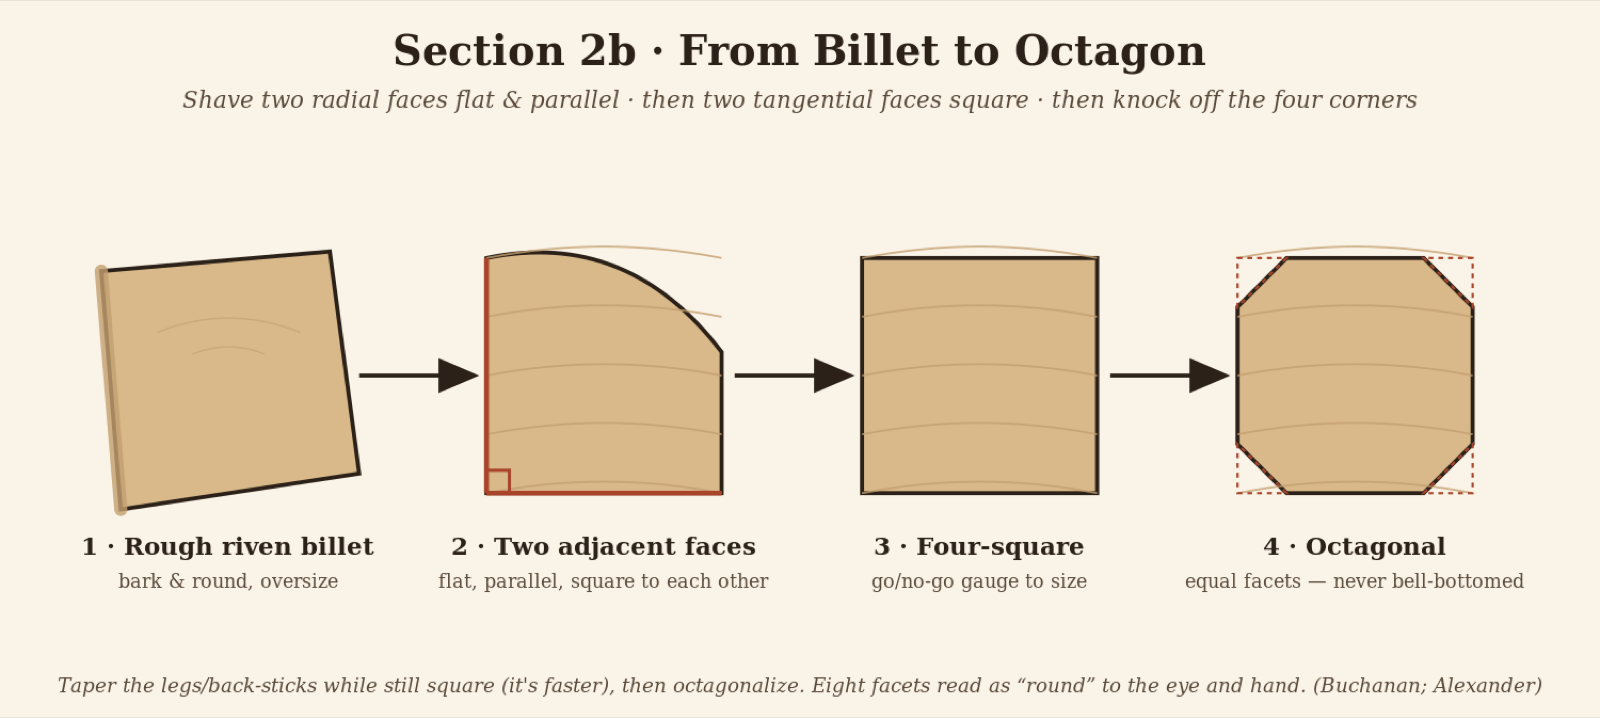
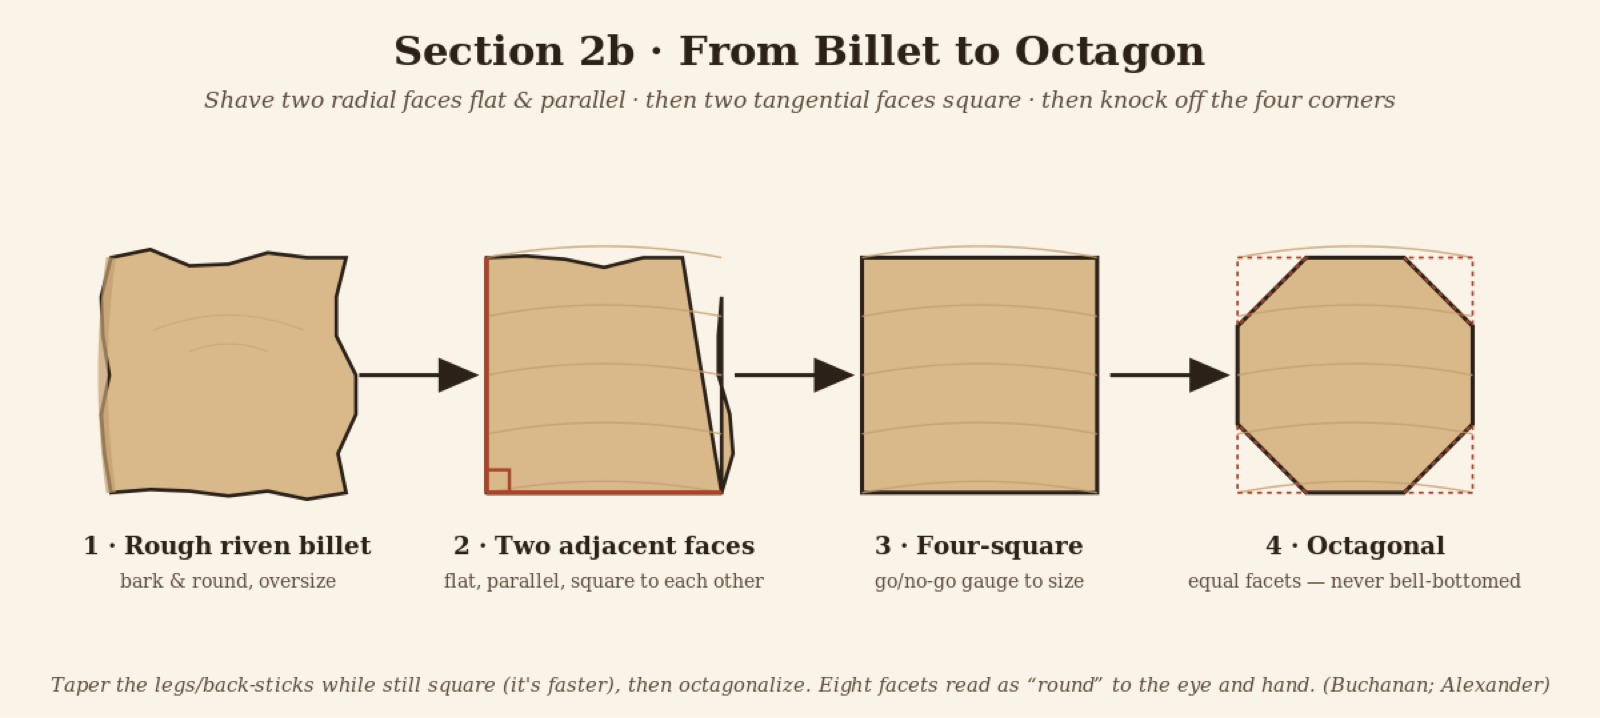
Sync with cowork's revised manuscript: real Sections 8 & 9 (drop drafts), expanded wood/splitting, Section 10 finish, 7 updated diagrams, drop oak photo

diff --git a/index.html b/index.html
@@ -191,7 +191,7 @@
         </div>
 
         <h3 class="sub">Riving and the radial face</h3>
-        <p>Splitting and shaving green wood is not nostalgia. Riven parts follow the wood's long fibers unbroken, which makes them far stronger and lighter than sawn parts — and far easier to shape by hand. As Jennie Alexander put it, you rive “to easily and readily obtain powerful bundles of long fibers.” Riving works radially: you split the log in half through the pith, halve again into quarters, and split billets out of each quarter along the rays. Every split runs pith-to-bark, so each part comes off the log with a true radial face already on it.</p>
+        <p>Splitting and shaving green wood is not nostalgia. Riven parts follow the wood's long fibers unbroken, which makes them far stronger and lighter than sawn parts — and far easier to shape by hand. As Jennie Alexander put it, you rive “to easily and readily obtain powerful bundles of long fibers.” Riving works radially: you split the log in half through the pith, then into quarters and finer, each split running pith-to-bark along the rays — so each part comes off the log with a true radial face already on it. (On a big log you'll split well past quarters, and once the pieces get small you'll also split tangentially, along the rings, just to get down to size — more on that in Section 1.)</p>
         <figure class="fig-plate caption-block">
           <img src="media/fig-rive-radially.png" loading="lazy" alt="Figure: rive radially — halve through the pith, quarter, then split billets along the rays.">
           <figcaption>Rive radially — halve through the pith, quarter, then split billets along the rays. Shave downhill, with the grain.</figcaption>
@@ -200,11 +200,6 @@
         <h3 class="sub">Reading the grain: radial and tangential</h3>
         <p>Look at the end of a log and you see growth rings circling the pith, with faint radial lines — the medullary rays — running outward like spokes. These two directions give a part its two kinds of face. A radial face lies along a ray, square to the rings, and its grain reads as straight parallel lines. A tangential face lies across the rings, and its grain reads as nested “cathedral” arches.</p>
         <p>For the standard chair, orient the wide faces of the arms and crest radial — the broad 2½″ face of an arm lying on the ray. Radial faces are more stable, move less, and present cleaner grain to the eye. Alexander's instruction for every part is simply to start with the radial face and work from there. The legs and back sticks, being roughly square, end up with a radial face on two sides and tangential on the other two.</p>
-        <figure class="photo">
-          <img src="media/ref-red-white-oak.jpg" loading="lazy" alt="End-grain comparison of red oak and white oak.">
-          <figcaption>Red oak (left) and white oak (right) — both make fine chairs. Alexander, <i>Make a Chair from a Tree</i>.</figcaption>
-        </figure>
-
         <h3 class="sub">Choosing the log</h3>
         <p>For the standard build, seek clear, straight-grained oak with no knots, twist, or rot in the lengths you need — it is the most predictable to read and the easiest to work. As Glenn notes, “straight-grained material works easier with hand tools.” One good log holds an entire chair.</p>
         <div class="callout historic">
@@ -288,6 +283,7 @@
             <li>Score the end grain pith-to-bark; start a narrow wedge, then a splitting wedge.</li>
             <li>Leap-frog wedges down the log; gluts to widen; roll it to free a pinched back.</li>
             <li>Quarter each half; pare away the juvenile wood at the pith.</li>
+            <li>On a big log, keep splitting — eighths, sixteenths, finer. Radial first; switch to tangential once pieces get narrow.</li>
           </ol>
           <p class="bc-head">Rive</p>
           <ol>
@@ -303,7 +299,8 @@
           <img src="media/fig-score-wedge-leapfrog.png" loading="lazy" alt="Figure: score pith-to-bark, start a wedge, then leap-frog wedges along the opening crack.">
           <figcaption>Score pith-to-bark, start a wedge, then leap-frog wedges along the opening crack.</figcaption>
         </figure>
-        <p>Start by splitting the whole log in half lengthwise, if you can. Beyond halving the stock, the fresh split face does something useful: it reveals any large knots hiding inside, so you can plan around them. With the interior in view, buck the halves into rough part-lengths — about 36″ and up — cutting out knots as you go. Then quarter each half. Before splitting any further, pare away the juvenile wood near the pith (it is weak and unstable), and you're left with clean quarters to rive from.</p>
+        <p>Start by splitting the whole log in half lengthwise, if you can. Beyond halving the stock, the fresh split face does something useful: it reveals any large knots hiding inside, so you can plan around them. With the interior in view, buck the halves into rough part-lengths — about 36″ and up — cutting out knots as you go. Then quarter each half, and pare away the weak, unstable juvenile wood near the pith.</p>
+        <p>With a big log, quarters are often still too heavy to handle and too fat to rive — so keep going. Split the quarters into eighths, sixteenths, or finer, both so you can actually move the pieces and so they reach a riveable size. These first splits are radial — pith-to-bark, along the rays — which is what gives each part its strong radial face. But once the wedges of wood get narrow, a radial split has little width left to take. At that point switch to splitting tangentially, along a growth ring, to peel a piece down to billet size. You give up the perfectly-radial face on those splits, but it is the only way to break a small wedge down further.</p>
         <p>To make a split, begin at the end grain. Score a line from the pith out to the bark — if the log already shows a radial check, follow it. Drive a narrow starting wedge into the scored line with the sledge. When the crack begins to open, switch to a standard splitting wedge and drive it until the crack travels along the length. Then comes the technique that makes long logs manageable, described step by step by Drew Langsner in <i>Country Woodcraft</i>:</p>
         <blockquote class="pq">
           <p>Continue leap-frogging to the end of the log. Use gluts to further open the crack… Gluts must be placed so that they won't intercept interior cross fibers — they will split apart if driven into cross fibers.</p>
@@ -644,7 +641,7 @@
             <li>Drill the comb at an angle; dry-fit and assemble — it pulls strays into line.</li>
           </ol>
         </div>
-        <p class="intro">With the outer sticks, arms, and legs established, you fill in the rest of the back and cap it with the comb. (Leveling and final assembly come a little later, once the parts are shaped.)</p>
+        <p class="intro">With the outer sticks, arms, and legs established, fill in the rest of the back and cap it with the comb. The chair's shape and posture come together here.</p>
 
         <h3 class="sub">Space and drill the inner sticks</h3>
         <p>Assemble what you have so far. Rotate the two outer back sticks until they sit at roughly the same angle along the layout line, and take that angle with a bevel gauge — that's the angle for the inner sticks (unless you have a “spicy” plan, like a curved crest, in which case you can vary them deliberately). Space the inner sticks evenly (or don't): divide the distance between the centerpoints of the two outer sticks by (n − 1), where n is the total number of back sticks, and you have the spacing.</p>
@@ -656,103 +653,115 @@
 
       <hr class="divider">
 
-      <!-- ===== SECTION 8 (final shaping — DRAFT) ===== -->
+      <!-- ===== SECTION 8 (final shaping) ===== -->
       <section id="sec8" class="build">
         <p class="sec-label">Section 8</p>
         <h2 class="sec-title">Final Shaping of the Parts</h2>
         <p class="sec-goal"><b>Goal:</b> Bring every part to its finished profile before glue-up.</p>
-        <div class="callout draft">
-          <div class="co-head">Work in progress</div>
-          <div class="co-body">This section is a rough draft — sketched from my notes, not yet fleshed out or finalized by me. Treat it as a placeholder, and check back as I revise it.</div>
-        </div>
-        <p class="intro">With the chair fully dry-fit and every joint proven, take it back apart and bring each part to its final shape. This is the pass that turns a sound chair into a resolved one — the surfaces and lines your hand and eye will read for the next hundred years.</p>
         <div class="bench-card">
           <ol>
-            <li>Fair the <b>arms</b> and <b>comb</b> to their finished outline; resolve the ends and ease the curves.</li>
-            <li>Put a light <b>chamfer</b> or soft round on every edge a hand or body meets.</li>
-            <li>Take a final clean pass with a sharp drawknife, spokeshave, or scraper — read the grain.</li>
-            <li>Rough-shape the proud <b>through-tenons</b> now; final-trim them after wedging (Section 10).</li>
+            <li>Refine the <b>arms &amp; comb</b> with a drawknife (spokeshave or block plane for tricky grain); add any stylistic touches.</li>
+            <li><b>Legs:</b> carry the taper further, or cut a double taper — without thinning away the strength.</li>
+            <li><b>Middle sticks:</b> match the outer sticks for a uniform fan, or leave them a touch varied.</li>
+            <li><b>Surfaces &amp; edges:</b> scrape out tear-out; chamfer or round the seat edges and any sharp arris.</li>
           </ol>
         </div>
-        <h3 class="sub">Fair the arms and comb</h3>
-        <p>Shape the arms and the comb to their finished outline. Fair the long curves so they flow, resolve the ends to a shape that pleases you, and check the lines from a step back — the eye catches what the rule misses.</p>
-        <h3 class="sub">Ease every edge</h3>
-        <p>Put a light chamfer or a soft round on every edge a hand or a body will meet — the front of the seat, the arm tops, the comb. A few passes with a spokeshave or block plane is plenty; the goal is to take the sharpness off, not to round everything away.</p>
-        <h3 class="sub">A last, clean surface</h3>
-        <p>Take a final pass with a sharp drawknife, spokeshave, or scraper, reading the grain as you go. On a green-wood chair the faceted, tooled surface <em>is</em> the finish — there is little or no sanding to do.</p>
+        <p class="intro">Before glue-up, take everything to its finished shape. Now that the joinery is settled and you can see the whole chair, this is where it stops being a collection of sticks and starts being yours.</p>
+
+        <h3 class="sub">Arms and comb</h3>
+        <p>Refine the arms and the comb with a drawknife — round the arms over, ease their ends, and bring the comb to its final profile. If a piece has grumpy, swirling grain that the drawknife wants to tear (riven stock rarely does, but a sawn or figured board can), switch to a spokeshave or a block plane, which take a smaller bite and handle reversing grain more kindly. This is also the place for any stylistic touches or light carving you have in mind — a faceted arm, a shaped comb, a chamfered end.</p>
+
+        <h3 class="sub">Legs</h3>
+        <p>The legs already carry the taper you put in earlier; now you can carry it further if you like. Continue the taper farther down the leg for a more delicate line, or cut a double taper — slim toward the foot and again up near the seat, leaving a swell in the middle — for a livelier shape. Keep an eye on strength: don't thin a leg so far it loses its backbone.</p>
+
+        <h3 class="sub">The middle sticks</h3>
+        <p>If you want the inner back sticks to read as a uniform set with the outer ones, refine their shape now — match their diameter and taper to the outer sticks so the fan looks intentional. Or leave them a touch varied; on a folk chair that reads as character, not error.</p>
+
+        <h3 class="sub">Surfaces and edges</h3>
+        <p>Clean up any tear-out with a card scraper or a spokeshave — a scraper especially loves the spots where the drawknife fought the grain. Then chamfer or round the edges of the seat so they don't bite the backs of a sitter's knees, and ease any other sharp arris your hand will meet. A few passes of detailing here make the difference between a rough chair and a finished one.</p>
+        <div class="callout folk">
+          <div class="co-head">The folk approach</div>
+          <div class="co-body">None of this has to be uniform or perfect. Tool facets, a slightly heavier arm on one side, a comb that isn't dead-symmetric — these are the fingerprints of a hand-made chair, and they are welcome. Shape to please your own eye.</div>
+        </div>
       </section>
 
       <hr class="divider">
 
-      <!-- ===== SECTION 9 (assembly & leveling — DRAFT) ===== -->
+      <!-- ===== SECTION 9 (assembly & leveling) ===== -->
       <section id="sec9" class="build">
         <p class="sec-label">Section 9</p>
         <h2 class="sec-title">Assembly &amp; Leveling</h2>
         <p class="sec-goal"><b>Goal:</b> The chair glued up, standing true, and reclined to taste.</p>
-        <div class="callout draft">
-          <div class="co-head">Work in progress</div>
-          <div class="co-body">The glue-up notes here are still a draft I haven't fleshed out — the leveling steps are settled, but treat the assembly notes as a placeholder until I revise them.</div>
-        </div>
-        <p class="intro">Now the chair comes together for good. You have proven every joint dry; this is where you commit them — in order, and only when each part is ready.</p>
         <div class="bench-card">
-          <p class="bc-head">Assemble</p>
+          <p class="bc-head">Glue up</p>
           <ol>
-            <li>Glue and drive the joints home <b>in build order</b> (see the rule below).</li>
-            <li>Seat each tenon fully; check the chair sits square as you go.</li>
+            <li>Assemble <b>in build order</b>, gluing as you go.</li>
+            <li>For legs: seat most of the way, then glue the <b>leg</b> (not the mortise) before driving home.</li>
+            <li>Wedge a leg-to-arm joint for a positive lock; wedge the comb only if it's loose.</li>
           </ol>
           <p class="bc-head">Level</p>
           <ol>
-            <li>Stand the chair on a dead-flat surface; shim until it sits at the attitude you want.</li>
-            <li>Scribe each leg with a block and a half-pencil; saw to the line.</li>
+            <li>On a dead-flat surface, shim the seat level side to side.</li>
+            <li>Set the recline by shimming the back (or front) feet; scribe each leg and saw to the line.</li>
           </ol>
         </div>
+        <p class="intro">Now bring it all together for good, and stand it on its feet so it sits the way you want.</p>
 
-        <h3 class="sub">Assemble in build order</h3>
-        <p>With the parts shaped, the chair goes together for the last time. Drive each joint home, trusting the green-wood grip — the dry tenons set into the seat's mortises, and the moisture difference draws them tight as the chair settles.</p>
+        <h3 class="sub">Glue up</h3>
+        <p>Assemble in the order you built the chair, gluing as you go. For the legs, seat each one most of the way, then put the glue on the leg before driving it home — if you put glue down inside the mortise instead, you'll squeeze out a mess and may hydraulic-lock the joint. A wedge across a leg-to-arm joint is a nice touch where you want a positive lock. The comb only needs a wedge if its tenons aren't a tight fit; if they're snug, leave them. Through-tenons can be left proud and stylized — domed or chamfered — or cut flush, as you like.</p>
         <div class="callout tip">
           <div class="co-head">A rule worth keeping</div>
-          <div class="co-body"><span class="co-title">Always work in build order.</span>Whenever you put the chair together or take it apart, do it in the order you made it: outer back sticks first, then the arm, then the front leg, then the back leg, then the remaining back sticks, and the comb last. To disassemble, reverse that order — comb first, sticks last. Forcing parts out of order is how joints crack.</div>
+          <div class="co-body"><span class="co-title">Build order.</span>Put the chair together in the order you made it: outer back sticks → arm → front leg → back leg → remaining back sticks → comb. To take it apart, reverse it — comb first, sticks last. Forcing parts out of order is how joints crack.</div>
         </div>
         <figure class="fig-plate caption-block">
           <img src="media/fig-assemble-order.png" loading="lazy" alt="Figure: assemble — and disassemble — in the order the chair was built.">
           <figcaption>Assemble — and disassemble — in the order the chair was built.</figcaption>
         </figure>
 
-        <h3 class="sub">Level the chair and set the recline</h3>
-        <p>Finally, cut the legs to length to do two things at once: level the chair so it sits without rocking, and set its recline — the angle between the seat and the floor — to taste. Stand the assembled chair on a dead-flat surface, shim it until it sits at the attitude you want, then scribe each leg with a block and a half-pencil and saw to the line. The same scribing logic that levels a row of sticks levels the four feet to the floor.</p>
+        <h3 class="sub">Level the seat, then set the recline</h3>
         <figure class="fig-plate caption-block">
-          <img src="media/fig-level-scribe-legs.png" loading="lazy" alt="Figure: stand the chair on a flat surface, shim it, and scribe each leg to one height.">
-          <figcaption>Stand the chair on a flat surface, shim it, and scribe each leg to one height.</figcaption>
+          <img src="media/fig-level-scribe-legs.png" loading="lazy" alt="Figure: stand the chair on a flat surface, shim level, and scribe each leg to one height.">
+          <figcaption>Stand the chair on a flat surface, shim level, and scribe each leg to one height.</figcaption>
         </figure>
+        <p>Stand the assembled chair on a dead-flat surface. First get the seat level side to side, using blocks and shims under the feet until it stops rocking. Then set the front-to-back attitude — the recline — to the sitter's taste by shimming the back (or front) feet. When it sits the way you want, scribe each leg with a block and a half-pencil and saw to the line; the four feet now meet the floor together.</p>
+        <div class="callout caution">
+          <div class="co-head">Caution</div>
+          <div class="co-body">If you gave the back sticks a high angle, don't recline the seat too far, or the chair gets tippy — the sitter's weight ends up behind the back feet. If it does feel tippy: either take a little off the front legs to stand it up straighter, or drill a hole in the back of the seat and add a fifth leg (an old, honest folk fix — see the Greenhill Six-legged Chair).</div>
+        </div>
       </section>
 
       <hr class="divider">
 
-      <!-- ===== SECTION 10 (pinning) ===== -->
+      <!-- ===== SECTION 10 (pinning, wedging & finishing) ===== -->
       <section id="sec10" class="build">
         <p class="sec-label">Section 10</p>
-        <h2 class="sec-title">Pinning, Wedging &amp; Finishing the Tenons</h2>
-        <p class="sec-goal"><b>Goal:</b> The key joints locked with pins and wedges.</p>
+        <h2 class="sec-title">Pinning, Wedging &amp; Finishing</h2>
+        <p class="sec-goal"><b>Goal:</b> The key joints locked, the tenons dressed, and a finish on the chair.</p>
         <div class="bench-card">
+          <p class="bc-head">Pin &amp; wedge</p>
           <ol>
             <li>Loose leg-to-seat → pin with a trenail through the <b>long-grain</b> side (never end grain).</li>
             <li>Leg-to-arm → pin, wedge, or both.</li>
             <li><b>Do NOT</b> pin the arm to the back stick — it must flex.</li>
-            <li>Comb → any pins / wedges you like.</li>
-            <li>Tenons: flush, or left proud and stylized.</li>
+            <li>Wedge the comb only if its tenons aren't already tight.</li>
             <li>Wedging: saw the kerf <b>across</b> the grain, ~8° wedge; drive across the grain.</li>
           </ol>
+          <p class="bc-head">Finish</p>
+          <ol>
+            <li>Pare / saw the proud tenons to final shape; last pass with a scraper.</li>
+            <li>Finish to taste — oil, wax, milk paint, or a bush coat of paint. Then sit in it.</li>
+          </ol>
         </div>
-        <p class="intro">A well-fitted Jimmy Possum can stand on friction and the green-wood grip alone, but most makers lock the key joints. How you do it is partly engineering and partly style.</p>
+        <p class="intro">Lock the joints that need it, dress the proud tenons, and put a finish on the chair. How you do this is partly engineering and partly style.</p>
 
-        <h3 class="sub">The rules</h3>
-        <p>A few guidelines, learned the hard way, govern where and how to pin and wedge:</p>
+        <h3 class="sub">Pinning and wedging</h3>
+        <p>A well-fitted Jimmy Possum stands largely on friction and the green-wood grip, but a few joints reward a positive lock:</p>
         <ul class="plain">
           <li>If a leg-to-seat joint is loose, pin it with a trenail or dowel driven through the long-grain side of the joint (never through end grain, which would split).</li>
-          <li>Leg-to-arm joints can be pinned, wedged, or both — these joints carry real load and benefit from a positive lock.</li>
+          <li>Leg-to-arm joints can be pinned, wedged, or both — they carry real load.</li>
           <li>Do not pin the arm to the back stick. That joint needs to move as the back sticks flex under a sitter.</li>
-          <li>The comb can take any number of pins and/or wedges, as the design calls for.</li>
-          <li>Every tenon may be cut flush with the surface or left proud and stylized — domed, chamfered, or shaped — as you like.</li>
+          <li>Wedge the comb only if its tenons aren't already a tight fit; otherwise leave it.</li>
+          <li>Every tenon may be cut flush or left proud and stylized — domed, chamfered, or shaped — as you like.</li>
         </ul>
         <div class="callout tip">
           <div class="co-head">Technique</div>
@@ -760,8 +769,11 @@
         </div>
         <figure class="photo">
           <img src="media/photo-author-whiteoak-walnut.jpg" loading="lazy" alt="A white-oak-and-walnut Jimmy Possum by the author, through-tenons standing proud and wedged.">
-          <figcaption>A white-oak-and-walnut Jimmy Possum of my own — the through-tenons stand proud and wedged on the arms and back stick. Photo: Lewis Laskin.</figcaption>
+          <figcaption>A white-oak-and-walnut Jimmy Possum of my own — the through-tenons stand proud and wedged on the arms and back sticks. Photo: Lewis Laskin.</figcaption>
         </figure>
+
+        <h3 class="sub">Finish</h3>
+        <p>Pare or saw the proud tenon tops to their final look, dome or chamfer them if you left them proud, and give the whole chair a last going-over with a scraper. Then finish to taste — oil, wax, milk paint, or the traditional bush coat of paint (the old chairs were often green or grey). A wiping oil or oil-wax is the simplest and shows off the tooled surfaces; paint hides humbler wood and is every bit as authentic. Then the last step of every chair: <em>sit in it.</em></p>
       </section>
 
       <hr class="divider">
@@ -935,6 +947,6 @@
     </div>
   </div>
 
-  <script src="script.js?v=4"></script>
+  <script src="script.js?v=5"></script>
 </body>
 </html>

diff --git a/script.js b/script.js
@@ -22,8 +22,8 @@
     sec6:    ["12″ square", "Bevel gauge", "Brace & ⅞″ bit", "Blocks & shims"],
     sec7:    ["Brace & bits", "Bevel gauge", "Dividers", "Saw"],
     sec8:    ["Spokeshave", "Drawknife", "Block plane", "Card scraper", "Rasp"],
-    sec9:    ["Mallet", "Shims", "Half-pencil", "Saw", "Flat surface"],
-    sec10:   ["Trenails / dowels", "Saw", "Wedges", "Mallet"],
+    sec9:    ["Glue", "Mallet", "Shims", "Half-pencil", "Saw"],
+    sec10:   ["Trenails / dowels", "Wedges", "Saw", "Scraper", "Oil / wax"],
     saddling:["Adze or gouge", "Inshave / scorp", "Travisher", "Scraper"]
   };
 
